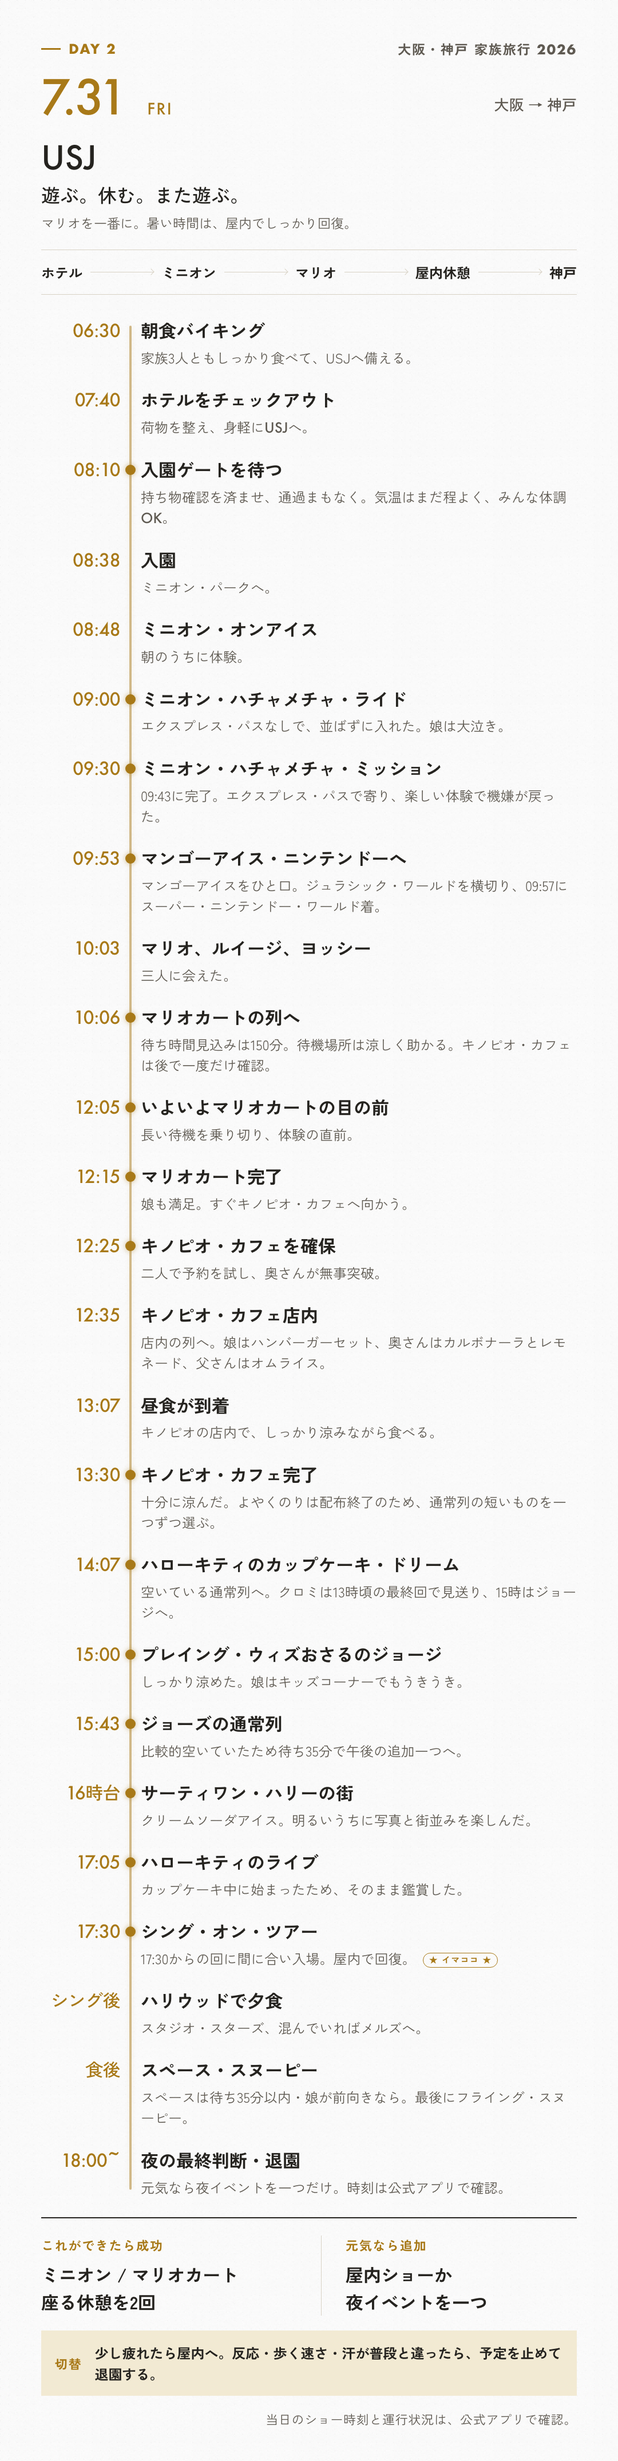
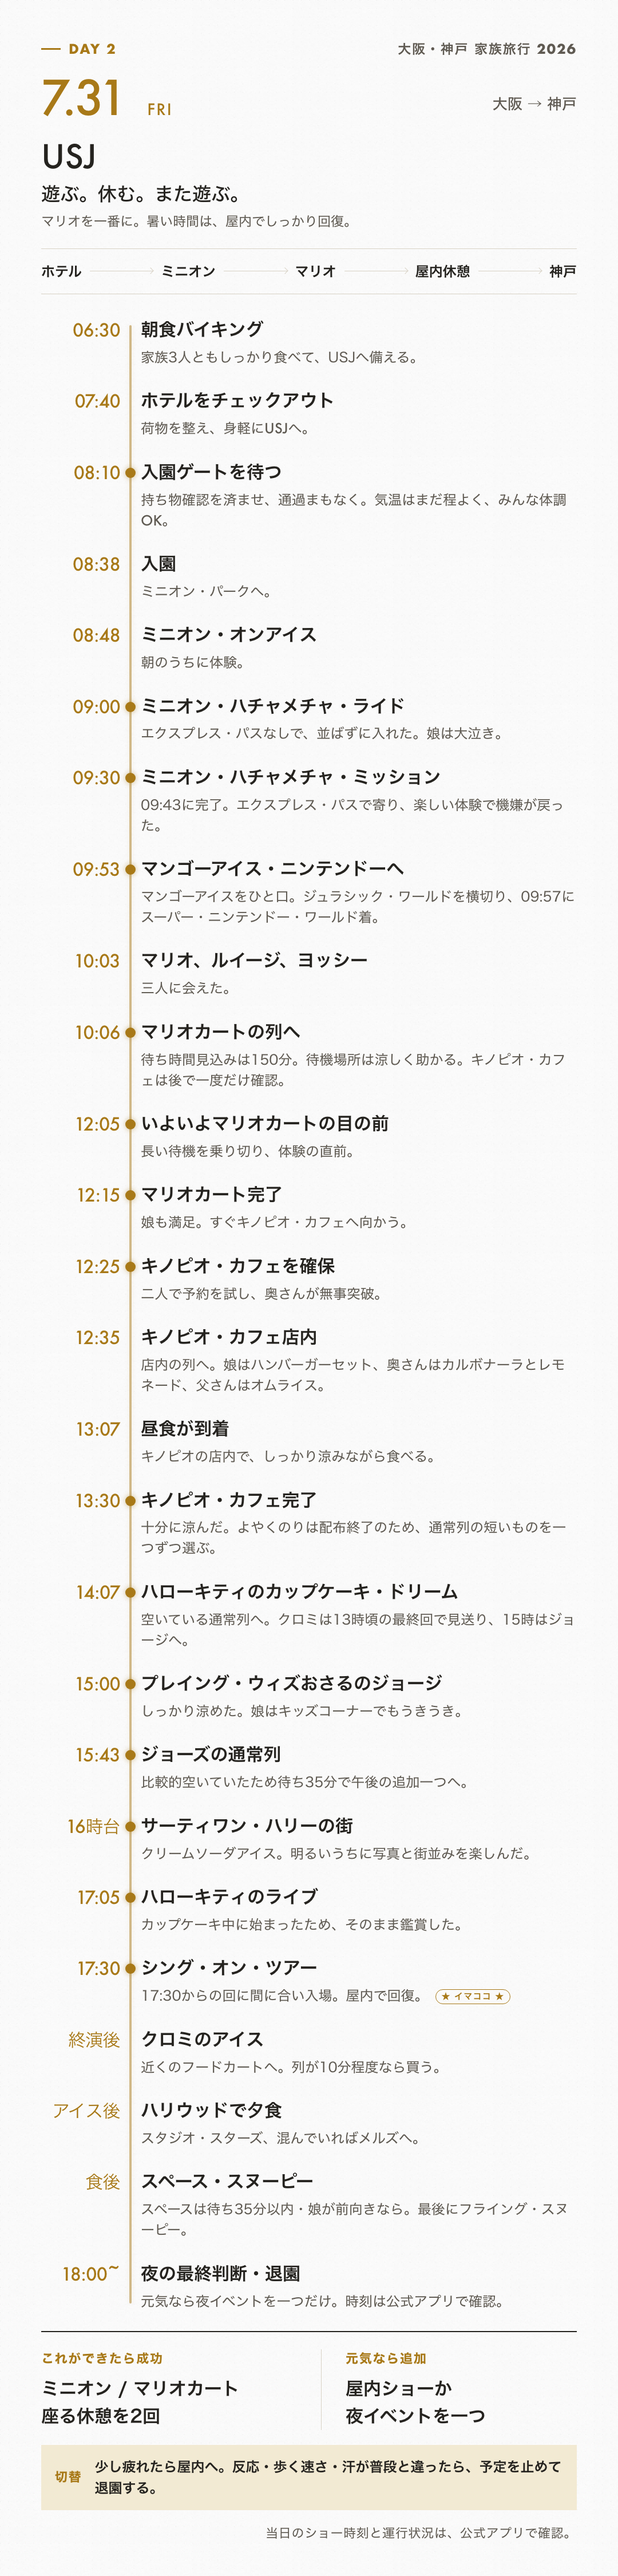
Synchronize live USJ guide decisions

diff --git a/docs/usj-guide.html b/docs/usj-guide.html
@@ -141,87 +141,65 @@
         <section>
           <div class="eyebrow"><span aria-hidden="true"></span>FAMILY DECISION</div>
           <h2>ここからの判断</h2>
-          <p class="status-note">ここからは予定。午前の本命はマリオカートへ集約し、午後は食事と屋内回復を優先する。</p>
+          <p class="status-note"><span class="now-marker">★ イマココ ★</span> 17:30、シング・オン・ツアーの中。昼の本命と夕方の散策は達成済み。ここからは「食べる・一つ乗る・夜を続けるか」の三択だけで進める。</p>
           <div class="mini-grid">
             <div>
-              <h3>1. ミニオンは完了</h3>
-              <p>ライドは通常列で入れ、ミッションへエクスプレス・パスを使って気持ちを立て直せた。</p>
+              <h3>次: クロミのアイス</h3>
+              <p>シング後、イルミネーション・シアター入口横のフードカートへ。列が10分程度なら買う。</p>
             </div>
             <div>
-              <h3>2. マリオカート</h3>
-              <p>10:06から待機列へ。12:15に完了し、娘も満足。朝の第一希望を達成した。</p>
+              <h3>次: 夕食</h3>
+              <p>スタジオ・スターズを確認。列が長ければ、近いメルズへすぐ切り替える。</p>
             </div>
             <div>
-              <h3>3. 食事と屋内回復</h3>
-              <p>キノピオを12:25に確保し、12:35に店内へ。ここで水分、主食、休憩を取る。</p>
+              <h3>食後: ライドは一つずつ</h3>
+              <p>スペースは待ち35分以内で娘が前向きなら。長ければフライング・スヌーピーを先にする。</p>
             </div>
           </div>
           <p class="route-line">
-            ミニオン完了 → ニンテンドー・ワールド → マリオカート完了
-            → キノピオ・カフェ確保 → 店内で食事・回復 → 一つずつ追加
+            シング → クロミのアイス → 夕食 → スペースまたはスヌーピー → 元気なら夜イベントを一つ
           </p>
           <p class="deadline-note">
-            <strong>10:30のエリア入場期限は09:57に通過済み。</strong> いまは期限より、マリオカート後の水分、食事、屋内回復を優先する。
+            <strong>終了済み:</strong> よやくのり、クロミ・ライブ、朝の整理券判断。いまは新しい券や期限を追わず、目の前の待ち時間と娘の反応で決める。
           </p>
         </section>
 
         <section>
-          <h2>ここからの基本線</h2>
+          <h2>ここからの実行順</h2>
           <div class="timeline">
             <div class="timeline__item">
-              <time>10:06-12:15</time>
+              <time>いま</time>
               <div>
-                <h3>マリオカート</h3>
-                <p>第一希望を達成。娘も満足して終えられた。</p>
+                <h3>シング・オン・ツアー</h3>
+                <p>17:30の回に入場済み。座って最後の屋内回復を取る。</p>
               </div>
             </div>
             <div class="timeline__item">
-              <time>12:25-</time>
+              <time>終演後</time>
               <div>
-                <h3>キノピオ・カフェ</h3>
-                <p>二人で予約を試して確保。12:35に店内の列へ入り、昼食と屋内回復へ。</p>
+                <h3>クロミのアイス</h3>
+                <p>近くのフードカートへ。列が10分程度なら買い、長ければ夕食を優先する。</p>
               </div>
             </div>
             <div class="timeline__item">
-              <time>カップケーキ後</time>
-              <div>
-                <h3>キティのメダルを確認</h3>
-                <p>ワンダーランドを出る前に、リボン・ブティックでクルーへ販売場所を聞く。</p>
-              </div>
-            </div>
-            <div class="timeline__item">
-              <time>シング後</time>
+              <time>アイス後</time>
               <div>
                 <h3>ハリウッドで夕食</h3>
-                <p>スタジオ・スターズを第一候補、列が長ければメルズへ。</p>
+                <p>スタジオ・スターズを第一候補。列が長ければメルズへ。</p>
               </div>
             </div>
             <div class="timeline__item">
               <time>食後</time>
               <div>
-                <h3>スペース、最後にスヌーピー</h3>
-                <p>スペースは待ち35分以内で娘が前向きなら。長待ちならスヌーピーを先にする。</p>
+                <h3>スペースかスヌーピー</h3>
+                <p>スペースは待ち35分以内で娘が前向きなら。長待ちならスヌーピーを先にする。二つとも無理に完走しない。</p>
               </div>
             </div>
             <div class="timeline__item">
-              <time>18:00</time>
+              <time>その後</time>
               <div>
                 <h3>夜を続けるか判定</h3>
-                <p>元気なら乗り物、ショー、街並みから一つ。疲れていれば屋内か退園へ。</p>
-              </div>
-            </div>
-            <div class="timeline__item">
-              <time>20:00頃</time>
-              <div>
-                <h3>最後の一つを選ぶ</h3>
-                <p>公式アプリのライン・クローズ時刻を確認。新しい長い列には並ばない。</p>
-              </div>
-            </div>
-            <div class="timeline__item">
-              <time>21:00以降</time>
-              <div>
-                <h3>ホテルで準備して合流</h3>
-                <p>閉園後に荷物、トイレ、水分を整え、準備OKの後にユニバーサルシティウォーク駐車場で合流する。</p>
+                <p>元気なら夜イベントを一つ。疲れたらユニバーサルシティウォーク駐車場での合流に向けて退園する。</p>
               </div>
             </div>
           </div>
@@ -230,7 +208,7 @@
         <section>
           <div class="eyebrow"><span aria-hidden="true"></span>FOOD GUIDE</div>
           <h2>昼と夜のごはん</h2>
-          <p class="status-note">ここからは予定。まずは座れること、水分、主食を優先する。</p>
+          <p class="status-note">昼食はキノピオ・カフェで完了。今夜はシング後のクロミのアイス、続いてハリウッドで夕食を取る。</p>
 
           <h3>昼: マリオカート後に最短で座る</h3>
           <p>
@@ -278,10 +256,10 @@
             12時台は「いちばん食べたい店」より「すぐ座れて冷房がある店」を選ぶ。
           </p>
 
-          <h3>夜: 17時台に座って回復する</h3>
+          <h3>今夜: シング後に食べる</h3>
           <p>
-            16:30頃に公式アプリで現在地周辺の待ち具合を確認し、17:00から17:30を目安に入店。
-            夕食のためだけにパークを横断しない。今いる場所から近い方を選ぶ。
+            シング後は、近くのクロミのアイスを挟んでから入店する。
+            スタジオ・スターズが長い列なら、夕食のために待たずメルズへ切り替える。
           </p>
           <div class="food-grid food-grid--night">
             <article class="food-card food-card--primary">
@@ -335,23 +313,15 @@
         </section>
 
         <section>
-          <h2>午後・夜の候補</h2>
+          <h2>今夜の候補</h2>
           <div class="mini-grid">
-            <div><h3>ミニオン</h3><p>ミニオン・ハチャメチャ・アイス。92cm以上、娘も付き添い利用できる。よやくのりはマリオ後に検討。</p></div>
-            <div><h3>ワンダーランド</h3><p>フライング・スヌーピー、ハローキティのカップケーキ・ドリーム。</p></div>
-            <div><h3>ハリー・ポッター</h3><p>フライト・オブ・ザ・ヒッポグリフ、ホグズミード散策。フォービドゥン・ジャーニーは122cm以上のため家族3人の候補外。</p></div>
-            <div><h3>アミティ</h3><p>ジョーズ。</p></div>
-            <div><h3>ジュラシック</h3><p>朝に乗らなかった場合のジュラシック・パーク・ザ・ライド。</p></div>
-            <div><h3>ハリウッド</h3><p>シング・オン・ツアー、プレイング・ウィズおさるのジョージ、クロミ・ライブ。</p></div>
+            <div><h3>まず食べる</h3><p>クロミのアイスを近くで。次にハリウッドで夕食。</p></div>
+            <div><h3>スペース</h3><p>スペース・ファンタジー・ザ・ライド ～CLUB ZEDD REMIX～。待ち35分以内で娘が乗りたいときだけ。</p></div>
+            <div><h3>スヌーピー</h3><p>フライング・スヌーピー。待ち25分以内なら、食後の一つとして有力。</p></div>
+            <div><h3>夜イベント</h3><p>食後の娘の体力が緑なら一つだけ。場所取りや追いかけはしない。</p></div>
           </div>
           <p class="direction-note">
-            <strong>キティのメダル:</strong> ワンダーランドへ着いたら、ライドより先に
-            <a href="https://www.usj.co.jp/web/ja/jp/shopping/hello-kittys-ribbon-boutique" target="_blank" rel="noreferrer">ハローキティのリボン・ブティック</a>
-            で「キティのメダルはありますか。販売場所を教えてください」とクルーへ確認する。公式にはキティグッズの専門店として案内されているが、メダルの在庫・販売場所は当日確認する。
-          </p>
-          <p>
-            パレードは追わない。スペース・ファンタジーは休止予定。
-            バブル・バブル、モッピーのバルーン、エルモのスケートボードは営業終了対象のため通常候補にも、よやくのり候補にもできない。
+            <strong>完了済み:</strong> ミニオン二つ、マリオカート、キノピオ・カフェ、カップケーキ、ジョージ、ジョーズ、アミティアイス、ハリーの街、キティのライブ。クロミ・ライブは13時頃で終了、よやくのりは配布終了。
           </p>
         </section>
 

diff --git a/docs/trip-plan.html b/docs/trip-plan.html
@@ -417,7 +417,7 @@
             </div>
             <div>
               <h3>この後</h3>
-              <p>サーティワン、明るいうちのハリーの街、キティのライブまで完了。シング後は夕食、スペース、スヌーピーの順で待ち時間を判断する。</p>
+              <p>シング後は近くでクロミのアイス。夕食を挟み、スペースかスヌーピーを待ち時間で一つ選ぶ。</p>
             </div>
           </div>
           <p>時刻つきの実績、現在地、ここからの判断は、<a href="usj-guide.html">USJ当日ガイド</a>を正本とする。</p>

diff --git a/docs/index.html b/docs/index.html
@@ -127,7 +127,7 @@
               src="guide/day-2.png"
               alt="7月31日、USJ日のしおり"
               width="1080"
-              height="4300"
+              height="4500"
               loading="lazy"
             />
           </figure>
